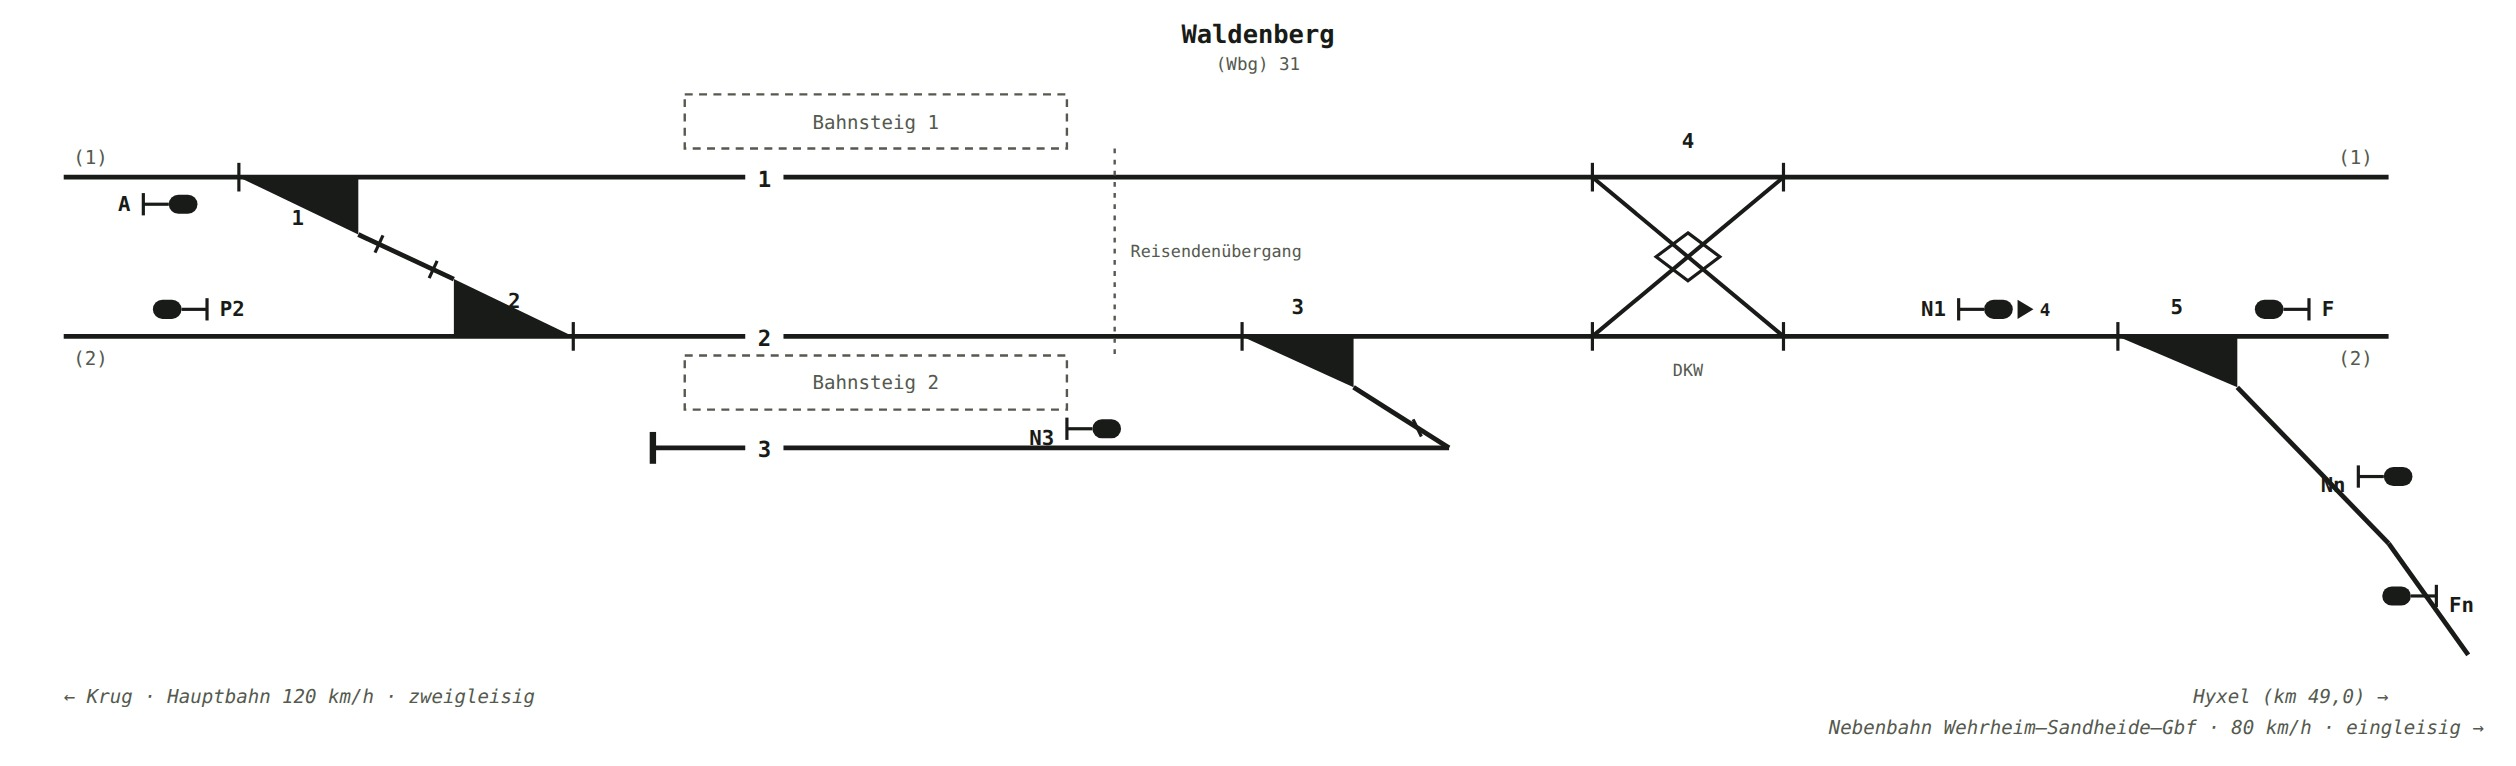
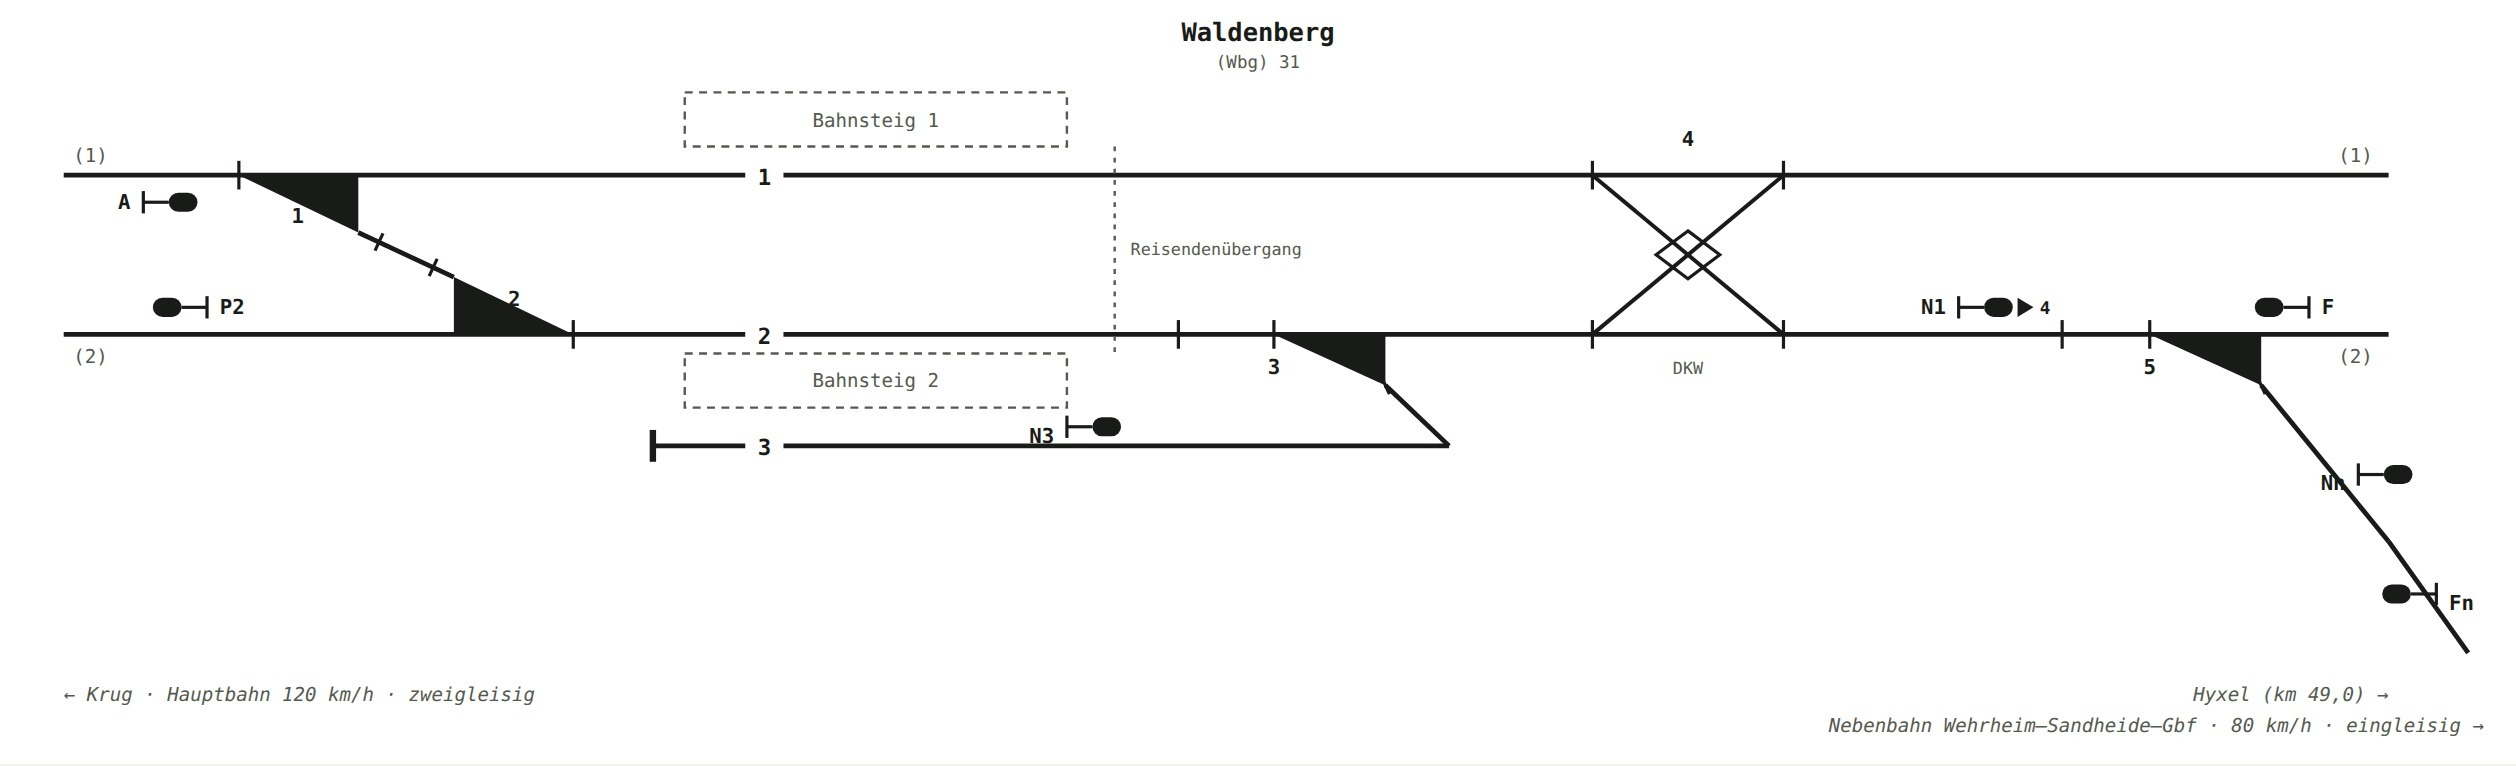
Lageplan Waldenberg: Weiche 3/5 nach Ril 819.9002 korrigiert
Weichenanfang und Weichenmitte als getrennte Striche mit Lücke
dazwischen (Stammgleis ungeteilt), Grenzzeichen exakt am
Weichenende statt mittig auf dem Zweiggleis, Weichennummer auf
die Seite des Zweiggleises verschoben (unterhalb der Stammlinie,
da Gleis 3 bzw. die Nebenbahn nach Süden abzweigen).

diff --git a/lageplan-waldenberg.html b/lageplan-waldenberg.html
@@ -90,8 +90,10 @@
   <section class="panel">
     <h2>Gleistopologie</h2>
     <p class="panel-note">
-      Weichensymbol nach Ril 819.9002: Weichenanfang als senkrechter Strich, Schwärzung
-      (ferngestellte Weiche), Grenzzeichen am Weichenende. Signale „abgeklappt" in
+      Weichensymbol nach Ril 819.9002: Weichenanfang und Weichenmitte je als senkrechter
+      Strich, dazwischen das Stammgleis ungeteilt, ab Weichenmitte die Schwärzung
+      (ferngestellte Weiche) zum Zweiggleis, Grenzzeichen am Weichenende. Die Weichennummer
+      steht auf der Seite des Zweiggleises. Signale „abgeklappt" in
       Fahrtrichtung, Schirm ausgefüllt = wärterbedient. Alle Hauptsignale sind
       <strong>Ks-Mehrabschnittssignale</strong> (Kombinationssignale, Signalbegriffe Hp 0,
       Ks 1, Ks 2) und tragen ihre Kennzeichnung am Schirm. Weiche 3 führt von Gleis 3 auf
@@ -168,16 +170,17 @@
 
         <!-- ===== Weiche 3: einfache Weiche, verbindet Gleis 3 auf Gleis 2 ===== -->
         <g stroke="currentColor" stroke-width="2">
-          <line x1="780" y1="201" x2="780" y2="219"/>
+          <line x1="740" y1="201" x2="740" y2="219"/>
+          <line x1="800" y1="201" x2="800" y2="219"/>
         </g>
         <g fill="currentColor" stroke="none">
-          <polygon points="780,210 850,210 850,242"/>
+          <polygon points="800,210 870,210 870,242"/>
         </g>
-        <line x1="850" y1="242" x2="910" y2="280" stroke="currentColor" stroke-width="3"/>
+        <line x1="870" y1="242" x2="910" y2="280" stroke="currentColor" stroke-width="3"/>
         <g stroke="currentColor" stroke-width="2">
-          <line x1="887.4" y1="262.1" x2="892.6" y2="272.9"/>
+          <line x1="867.5" y1="236.5" x2="872.5" y2="247.5"/>
         </g>
-        <text x="815" y="196" text-anchor="middle" font-size="13" font-weight="600" fill="currentColor">3</text>
+        <text x="800" y="235" text-anchor="middle" font-size="13" font-weight="600" fill="currentColor">3</text>
 
         <!-- ===== Doppelkreuzungsweiche 4: verbindet Gleis 1 und Gleis 2, erst hinter Weiche 3 ===== -->
         <g stroke="currentColor" stroke-width="2">
@@ -237,17 +240,18 @@
 
         <!-- ===== Abzweig zur Nebenbahn: Weiche 5 aus Gleis 2, Gleis 1 bleibt durchgehend ===== -->
         <g stroke="currentColor" stroke-width="2">
-          <line x1="1330" y1="201" x2="1330" y2="219"/>
+          <line x1="1295" y1="201" x2="1295" y2="219"/>
+          <line x1="1350" y1="201" x2="1350" y2="219"/>
         </g>
         <g fill="currentColor" stroke="none">
-          <polygon points="1330,210 1405,210 1405,242"/>
+          <polygon points="1350,210 1420,210 1420,242"/>
         </g>
-        <line x1="1405" y1="242" x2="1500" y2="340" stroke="currentColor" stroke-width="3"/>
+        <line x1="1420" y1="242" x2="1500" y2="340" stroke="currentColor" stroke-width="3"/>
         <line x1="1500" y1="340" x2="1550" y2="410" stroke="currentColor" stroke-width="3"/>
         <g stroke="currentColor" stroke-width="2">
-          <line x1="1463" y1="302" x2="1470" y2="309"/>
+          <line x1="1417.5" y1="236.5" x2="1422.5" y2="247.5"/>
         </g>
-        <text x="1367" y="196" text-anchor="middle" font-size="13" font-weight="600" fill="currentColor">5</text>
+        <text x="1350" y="235" text-anchor="middle" font-size="13" font-weight="600" fill="currentColor">5</text>
 
         <!-- Nn: Ausfahrsignal Nebenbahn, Richtung Wehrheim -->
         <g stroke="currentColor" stroke-width="2" fill="none">

diff --git a/zeichnung-waldenberg.html b/zeichnung-waldenberg.html
@@ -69,16 +69,17 @@
   <text x="1490" y="228" text-anchor="end">(2)</text>
 </g>
 <g stroke="#000000" stroke-width="2">
-  <line x1="780" y1="201" x2="780" y2="219"/>
+  <line x1="740" y1="201" x2="740" y2="219"/>
+  <line x1="800" y1="201" x2="800" y2="219"/>
 </g>
 <g fill="#000000" stroke="none">
-  <polygon points="780,210 850,210 850,242"/>
+  <polygon points="800,210 870,210 870,242"/>
 </g>
-<line x1="850" y1="242" x2="910" y2="280" stroke="#000000" stroke-width="3"/>
+<line x1="870" y1="242" x2="910" y2="280" stroke="#000000" stroke-width="3"/>
 <g stroke="#000000" stroke-width="2">
-  <line x1="887.4" y1="262.1" x2="892.6" y2="272.9"/>
+  <line x1="867.5" y1="236.5" x2="872.5" y2="247.5"/>
 </g>
-<text x="815" y="196" text-anchor="middle" font-size="13" font-weight="600" fill="#000000">3</text>
+<text x="800" y="235" text-anchor="middle" font-size="13" font-weight="600" fill="#000000">3</text>
 <g stroke="#000000" stroke-width="2">
   <line x1="1000" y1="101" x2="1000" y2="119"/>
   <line x1="1000" y1="201" x2="1000" y2="219"/>
@@ -123,17 +124,18 @@
 <rect x="1416" y="187" width="18" height="12" rx="6" fill="#000000"/>
 <text x="1458" y="197" font-size="13" font-weight="600" fill="#000000">F</text>
 <g stroke="#000000" stroke-width="2">
-  <line x1="1330" y1="201" x2="1330" y2="219"/>
+  <line x1="1295" y1="201" x2="1295" y2="219"/>
+  <line x1="1350" y1="201" x2="1350" y2="219"/>
 </g>
 <g fill="#000000" stroke="none">
-  <polygon points="1330,210 1405,210 1405,242"/>
+  <polygon points="1350,210 1420,210 1420,242"/>
 </g>
-<line x1="1405" y1="242" x2="1500" y2="340" stroke="#000000" stroke-width="3"/>
+<line x1="1420" y1="242" x2="1500" y2="340" stroke="#000000" stroke-width="3"/>
 <line x1="1500" y1="340" x2="1550" y2="410" stroke="#000000" stroke-width="3"/>
 <g stroke="#000000" stroke-width="2">
-  <line x1="1463" y1="302" x2="1470" y2="309"/>
+  <line x1="1417.5" y1="236.5" x2="1422.5" y2="247.5"/>
 </g>
-<text x="1367" y="196" text-anchor="middle" font-size="13" font-weight="600" fill="#000000">5</text>
+<text x="1350" y="235" text-anchor="middle" font-size="13" font-weight="600" fill="#000000">5</text>
 <g stroke="#000000" stroke-width="2" fill="none">
   <line x1="1481" y1="291" x2="1481" y2="305"/>
   <line x1="1481" y1="298" x2="1497" y2="298"/>
